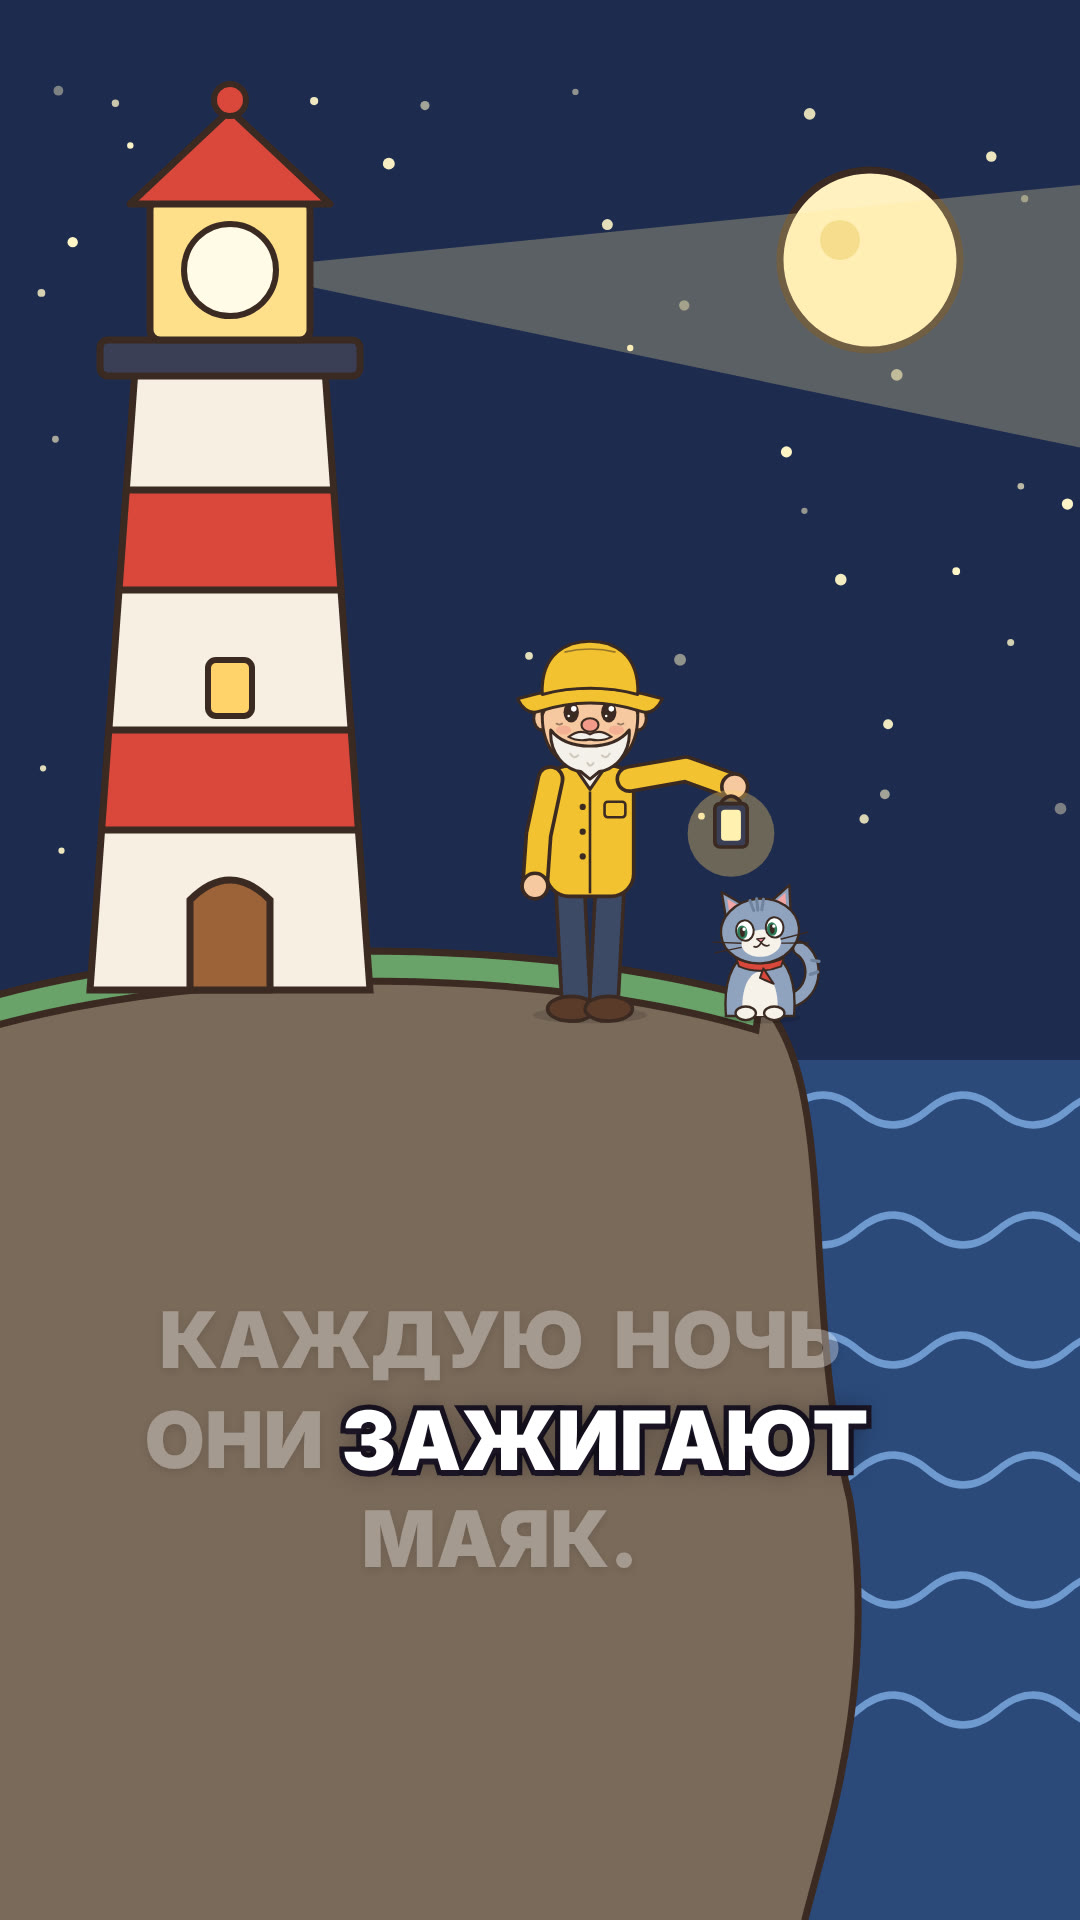
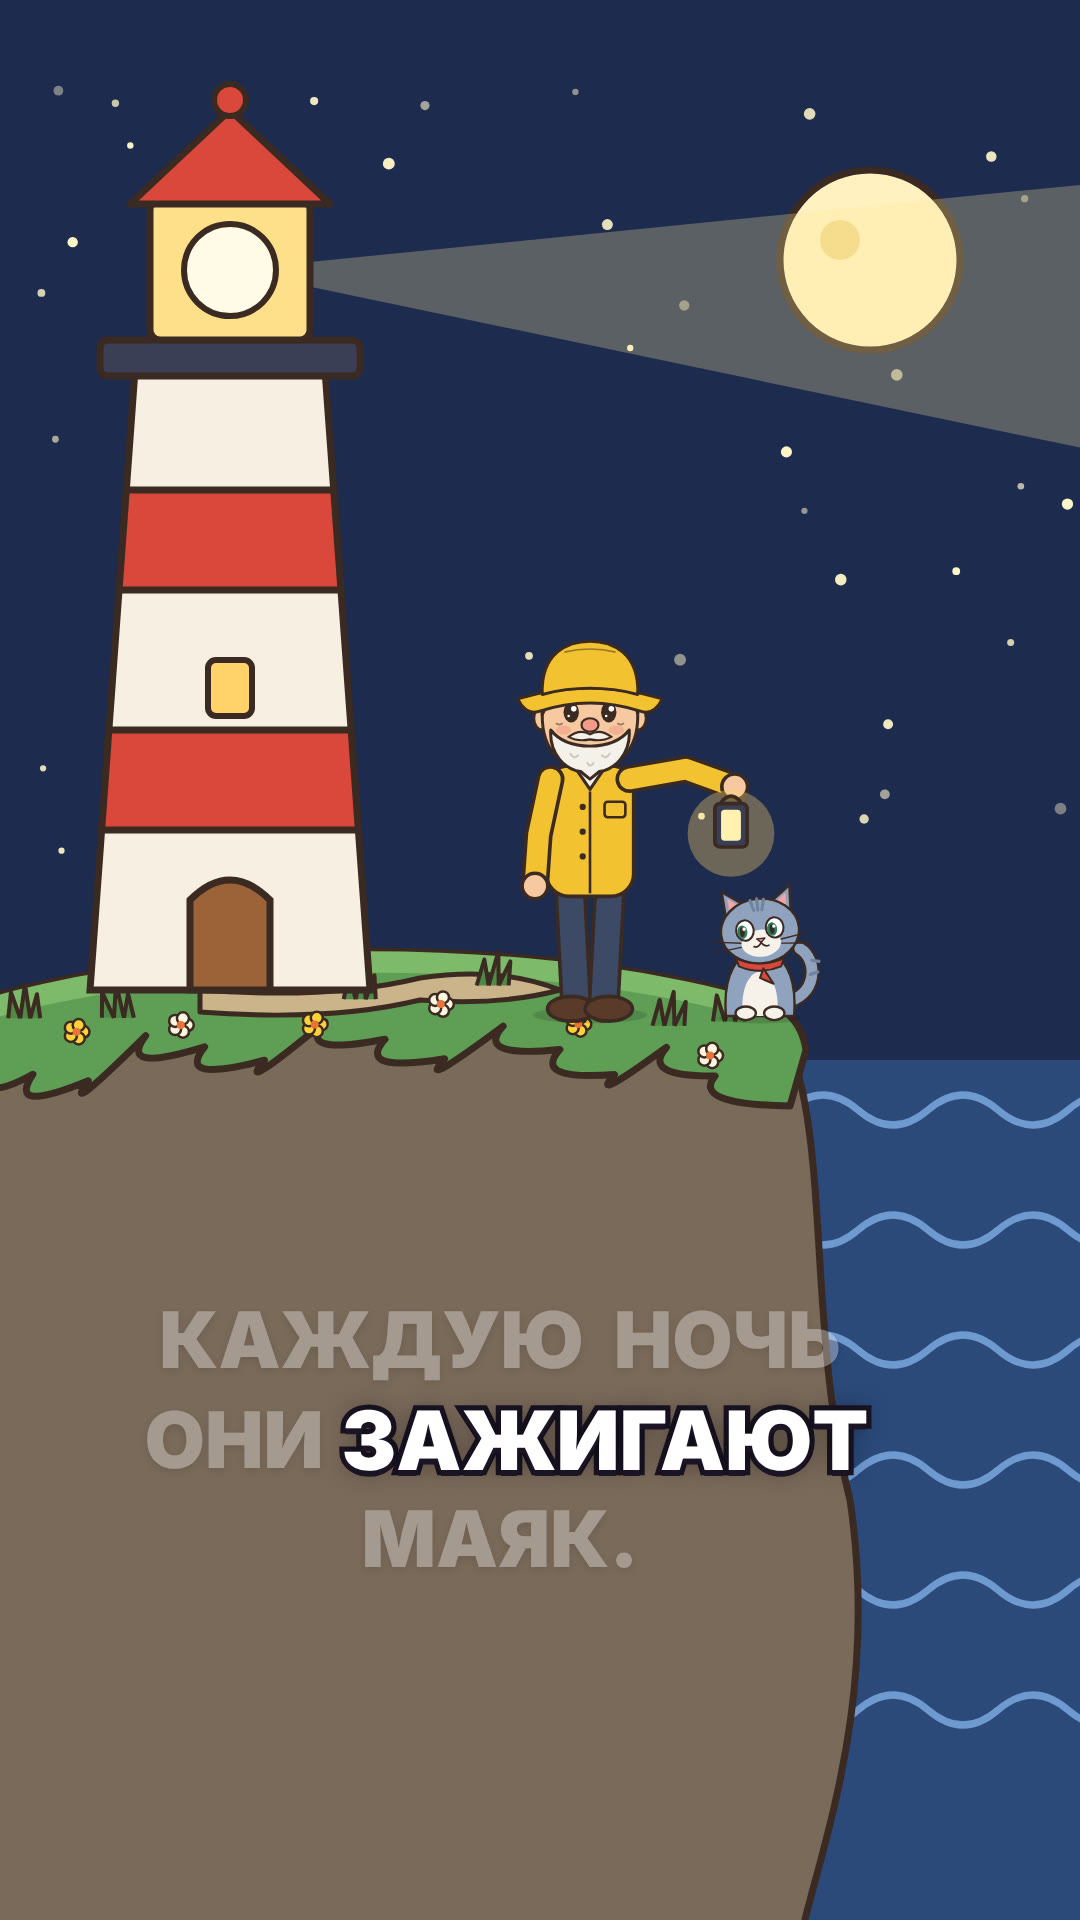
Lighthouse scene: proper grassy cliff top
Claude-Session: https://claude.ai/code/session_01FMPcmzreS5vfUHK36F77hk

Changed region(s): [[0.0, 0.5, 0.7639, 0.5938]]

diff --git a/videos/dvazhdy/src/series/Keeper.tsx b/videos/dvazhdy/src/series/Keeper.tsx
@@ -191,6 +191,59 @@ const Lighthouse: React.FC<{x: number; y: number; t: number}> = ({x, y, t}) => {
 	);
 };
 
+
+// cliff top curve: M -20 1000 C 220 930 560 940 760 1000
+const bez = (u: number): [number, number] => {
+	const p = [[-20, 1000], [220, 930], [560, 940], [760, 1000]];
+	const a = (1 - u) ** 3, b = 3 * (1 - u) ** 2 * u, c = 3 * (1 - u) * u * u, d = u ** 3;
+	return [a * p[0][0] + b * p[1][0] + c * p[2][0] + d * p[3][0], a * p[0][1] + b * p[1][1] + c * p[2][1] + d * p[3][1]];
+};
+
+const GrassTop: React.FC<{t: number}> = ({t}) => {
+	// scalloped lower edge hanging over the rock
+	const n = 14;
+	let lower = '';
+	for (let i = n; i >= 0; i--) {
+		const [x, y] = bez(i / n);
+		const depth = 70 + (i % 3) * 18;
+		const [px, py] = bez(Math.max(0, (i - 0.5) / n));
+		lower += i === n ? `L ${x + 30} ${y + depth} ` : `Q ${px} ${py + depth + 34} ${x} ${y + depth} `;
+	}
+	const top = 'M -20 1000 C 220 930 560 940 760 1000 Q 800 1010 806 1050 ';
+	const light = 'M -20 1000 C 220 930 560 940 760 1000 L 752 1018 C 560 962 220 952 -20 1022 Z';
+	const tufts = [0.06, 0.18, 0.3, 0.47, 0.63, 0.86, 0.95];
+	const flowers = [0.11, 0.24, 0.4, 0.55, 0.72, 0.9];
+	return (
+		<g>
+			<path d={top + lower + 'Z'} fill="#5f9e55" stroke={OL} strokeWidth={OW} strokeLinejoin="round" />
+			<path d={light} fill="#7dbb6a" />
+			{/* dirt path from the lighthouse door */}
+			<path d="M 200 990 Q 330 1000 420 978 Q 500 966 560 990 Q 500 1006 420 1000 Q 330 1022 200 1012 Z" fill="#cbb48a" stroke={OL} strokeWidth={5} strokeLinejoin="round" />
+			{tufts.map((u, i) => {
+				const [x, y] = bez(u);
+				const sway = Math.sin(t * 2 + i) * 4;
+				return (
+					<g key={i} transform={`translate(${x} ${y + 30 + (i % 2) * 18})`}>
+						<path d={`M -16 0 L ${-12 + sway} -26 L -4 0 M -4 0 L ${2 + sway} -34 L 6 0 M 6 0 L ${14 + sway} -24 L 16 0`} fill="#4e8a46" stroke={OL} strokeWidth={4} strokeLinejoin="round" />
+					</g>
+				);
+			})}
+			{flowers.map((u, i) => {
+				const [x, y] = bez(u);
+				const col = i % 2 ? '#fff6e0' : '#ffd23a';
+				return (
+					<g key={i} transform={`translate(${x + 14} ${y + 52 + (i % 3) * 10})`}>
+						{[0, 1, 2, 3, 4].map((k) => (
+							<circle key={k} cx={Math.cos((k / 5) * Math.PI * 2) * 7} cy={Math.sin((k / 5) * Math.PI * 2) * 7} r={6} fill={col} stroke={OL} strokeWidth={2.5} />
+						))}
+						<circle r={4} fill="#e8743a" />
+					</g>
+				);
+			})}
+		</g>
+	);
+};
+
 const Outside: React.FC<{t: number}> = ({t}) => (
 	<>
 		<rect width={1080} height={1920} fill="#1d2b4f" />
@@ -204,7 +257,7 @@ const Outside: React.FC<{t: number}> = ({t}) => (
 			<path key={r} d={`M ${-140 + ((r % 2) * 70) - ((t * 30) % 140)} ${1110 + r * 120} ` + Array.from({length: 10}).map(() => 'q 35 -30 70 0 q 35 30 70 0').join(' ')} fill="none" stroke="#6f9ad0" strokeWidth={7} strokeLinecap="round" />
 		))}
 		<path d="M -20 1000 C 220 930 560 940 760 1000 C 840 1080 800 1300 850 1500 C 880 1700 820 1850 800 1940 L -20 1940 Z" fill="#7a6a5a" stroke={OL} strokeWidth={OW} />
-		<path d="M -20 1000 C 220 930 560 940 760 1000 L 756 1030 C 560 970 220 960 -20 1030 Z" fill="#6aa36a" stroke={OL} strokeWidth={OW} />
+		<GrassTop t={t} />
 		<Lighthouse x={230} y={990} t={t} />
 		<Keeper x={590} y={1012} s={0.52} armR={[100, -30]} face="neutral" />
 		{/* lantern */}
